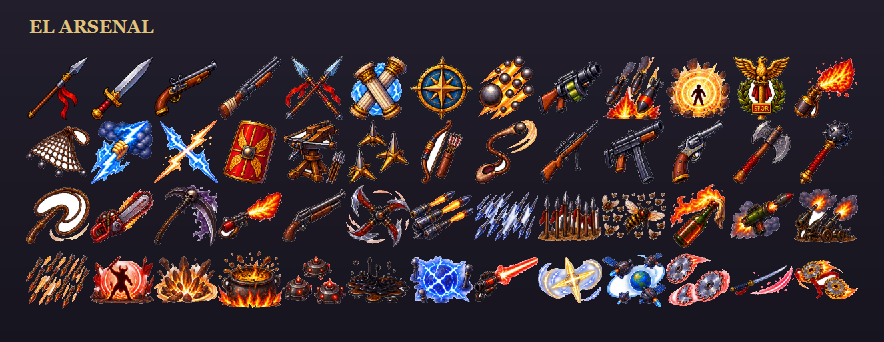
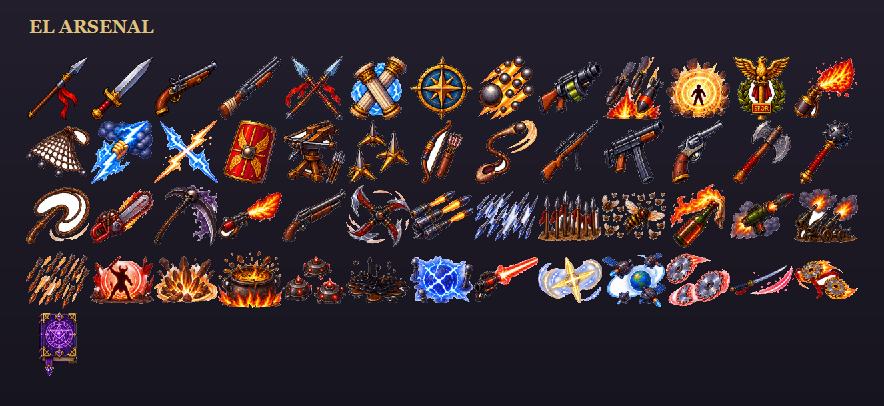
El Códice Infernal: el arma de Say crece contando libros, no números
Un libro orbitando al empezar y uno más en cada subida, hasta los diez de la
lámina. Es la única arma del juego en la que subir de nivel se ve antes de
leer nada: hay otro libro dando vueltas.

Y CADA LIBRO ES UN LIBRO DISTINTO, no diez copias del mismo. Para eso hacía
falta una forma nueva de repartir una hoja de fotogramas: las lunas de los
Satélites eligen el suyo por DÓNDE están en la órbita —así una vuelta es un
ciclo lunar— y aquí tiene que elegirlo el NÚMERO de orbital, o los diez libros
estarían cambiando de portada todo el rato y ninguno sería el tuyo.

Giran más deprisa con el nivel, de 1,6 a 4,45 rad/s. Es lo que evita que el
arma sea solo "más cosas": la última subida no añade un décimo del daño,
cambia cómo se siente. Por eso el daño sube poco y el radio casi nada — con
diez orbitales cada punto se cobra diez veces por vuelta.

Los libros salieron primero a 1,7 sobre su radio de daño y cada uno era más
alto que la propia Say: diez de esos tapaban a quien los llevaba. A 1,15 se
leen como objetos que ella maneja.

La portada del arma es el primer libro de la lámina. La tira de iconos se
monta desde archivos sueltos, uno por arma, así que faltaba poder sacar una
celda de una hoja a un archivo aparte: eso es ExtraerCelda, y corta por
rectángulo porque las diez calles de la lámina están limpias (columnas
18-227, 249-461, 479-688, 710-920, 942-1156 sobre celdas de 233).

La huella dorada del determinismo cambia y no es una regresión: un arma más
[…]

diff --git a/js/datos/armas.js b/js/datos/armas.js
@@ -1193,6 +1193,73 @@ export const ARMAS = {
               { danyo: 6 }, { danyo: 9, recarga: -0.15 }]
   },
 
+  // --- El arma de Say: el Códice Infernal --------------------------------
+  //
+  // Pedida por Sergio, y es un orbital que crece EN NÚMERO DE LIBROS: uno al
+  // nivel 1 y uno más en cada subida, hasta los diez de la lámina. Es la única
+  // arma del juego en la que subir de nivel se ve antes de leer nada — hay un
+  // libro más dando vueltas.
+  //
+  // CADA LIBRO ES UN LIBRO DISTINTO, no diez copias del mismo. La lámina trae
+  // los diez y el motor reparte uno por orbital (`fotogramaPorEscudo`, ver
+  // dibujarOrbitales en sistemas/armas.js), así que la biblioteca se va
+  // abriendo según se sube: el que sale al nivel 7 no lo habías visto nunca.
+  //
+  // Y GIRAN MÁS DEPRISA CON EL NIVEL. `velocidadAngular` sube en casi todas las
+  // subidas, de 1,6 a 4,4 rad/s: al 1 es un libro paseando y al 10 son diez
+  // rodeándote a la carrera. Es lo que evita que el arma sea solo "más cosas":
+  // la última subida no añade un décimo del daño, cambia cómo se siente.
+  //
+  // EL DAÑO SUBE POCO A POCO Y EL RADIO CASI NADA, a propósito. Con diez
+  // orbitales, cada punto de daño se cobra diez veces por vuelta: la cuenta que
+  // importa aquí no es el golpe, es cuántos hay dando vueltas y a qué
+  // velocidad. Por eso arranca en 9 —por debajo de los Satélites, que solo
+  // llevan dos— y llega a 40 y no a 72.
+  //
+  // `radioOrbita` 46: entre los Discos de sierra (26, pegados al cuerpo) y los
+  // Satélites (68, guardando el perímetro). Un libro a media distancia es lo
+  // que deja pasar a un enemigo por dentro y por fuera, que es lo que hace que
+  // colocarse importe.
+  codiceInfernal: {
+    nombre: 'Códice Infernal',
+    descripcion: 'Diez libros que no deberían abrirse. Cada nivel despierta a otro.',
+    comportamiento: 'orbital',
+    danyo: 9, recarga: 1.0, escudos: 1, radioOrbita: 46, radioEscudo: 6,
+    velocidadAngular: 1.6, empuje: 55, color: '#b07de0',
+    spriteOrbital: 'orbCodice',
+    // El libro por número de orbital y no por posición en la órbita: ver la
+    // nota larga de `porEscudo` en dibujarOrbitales.
+    fotogramaPorEscudo: true,
+    // 1,15 sobre el radio de daño. Un poco por encima, como las lunas, porque el
+    // libro es ALTO Y ESTRECHO y su dibujo entra en un cuadro: lo que sobresale
+    // del círculo es el alto del libro, no filo — el daño sigue siendo el
+    // círculo de `radioEscudo`, como en todos los orbitales.
+    //
+    // Llegó a estar en 1,7 y era demasiado: con el radio al máximo, cada libro
+    // salía más alto que la propia Say —34 unidades contra 26— y diez de esos
+    // dando vueltas tapaban a quien los llevaba. Un libro tiene que leerse como
+    // un objeto que ella maneja, no como un decorado con una niña dentro.
+    escalaOrbital: 1.15,
+    // SIN `giroOrbital`. Mismo motivo que las lunas y que el escudo del Scutum:
+    // un libro tiene derecho y revés, y rotándolo se lee del revés media vuelta
+    // de cada dos. Lo que da la sensación de magia aquí es que sean muchos y
+    // vayan rápido, no que volteen.
+    // EL RADIO DE DAÑO CRECE POCO —de 6 a 8— y no por tacañería: son DIEZ
+    // círculos girando. Cada unidad de radio se multiplica por diez alrededor
+    // del jugador, así que lo que en un arma de dos orbitales es un ajuste
+    // menor, aquí es cerrar el paso del todo.
+    niveles: [{},
+              { escudos: 1, velocidadAngular: 0.35, danyo: 3 },
+              { escudos: 1, velocidadAngular: 0.3, danyo: 3, radioEscudo: 1 },
+              { escudos: 1, velocidadAngular: 0.3, danyo: 3 },
+              { escudos: 1, velocidadAngular: 0.3, danyo: 4, radioOrbita: 6 },
+              { escudos: 1, velocidadAngular: 0.3, danyo: 3 },
+              { escudos: 1, velocidadAngular: 0.3, danyo: 4 },
+              { escudos: 1, velocidadAngular: 0.3, danyo: 4, radioEscudo: 1 },
+              { escudos: 1, velocidadAngular: 0.3, danyo: 3, radioOrbita: 6 },
+              { escudos: 1, velocidadAngular: 0.4, danyo: 4, recarga: -0.15 }]
+  },
+
   // --- Barrido completo: la katana --------------------------------------
   // Pedida por Sergio. Es un arcoMelee con la apertura al máximo: 360 grados,
   // así que no hay que orientarse ni acercarse por un lado concreto — barre todo

diff --git a/js/sistemas/armas.js b/js/sistemas/armas.js
@@ -1055,10 +1055,24 @@ export class Armas {
         const fases = metaOrb.frames || 1;
         const vuelta = Math.PI * 2;
 
+        // UN DIBUJO DISTINTO POR ORBITAL, la otra manera de repartir la hoja.
+        //
+        // Es la del Códice Infernal: sube de nivel y aparece OTRO libro, no uno
+        // más igual que el anterior. Su hoja trae los diez, y lo que elige cuál
+        // es el número de orbital, no dónde está en la órbita — cada libro es
+        // el mismo libro siempre, dé las vueltas que dé. Si la fase la pusiera
+        // el ángulo, como en las lunas, los diez libros estarían cambiando de
+        // portada todo el rato y no habría ninguno que fuera el tuyo.
+        const porEscudo = !!arma.def.fotogramaPorEscudo;
+
         for (let k = 0; k < s.escudos; k++) {
           const a = arma.anguloOrbital + k * paso;
           let f = 0;
-          if (fases > 1) {
+          if (porEscudo) {
+            // El módulo es la red de seguridad: si algún día hay más orbitales
+            // que dibujos en la hoja, se repiten en vez de indexar fuera.
+            f = k % fases;
+          } else if (fases > 1) {
             // El doble módulo es para los ángulos negativos: en JavaScript
             // (-0.3 % 1) es -0.3, no 0.7, y eso indexaría fuera de la tira.
             const t = (((a / vuelta) % 1) + 1) % 1;

diff --git a/herramientas/probar-determinismo.js b/herramientas/probar-determinismo.js
@@ -31,8 +31,19 @@ const RAIZ = join(dirname(fileURLToPath(import.meta.url)), '..');
 const PUERTO = 8143;
 
 // Huella de la semilla por defecto (0xE3E21A), 3600 fotogramas de seis en seis
-// centenas. Tomada el 4 de septiembre de 2026.
-const HUELLA_ESPERADA = 'd304ef86 901760c0 4e6676a4 160005aa 8b4c668c f44a7bea b591fd1b';
+// centenas. Rehecha el 6 de septiembre de 2026, al entrar el Codice Infernal.
+//
+// POR QUE CAMBIO, que es lo unico que hay que saber para no asustarse la
+// proxima vez: un arma nueva en el catalogo cambia el SORTEO de la subida de
+// nivel —hay un candidato mas del que tirar— y a partir de ahi el azar se gasta
+// en otro orden. La simulacion no se ha tocado: las dos primeras pruebas de
+// este mismo archivo siguen diciendo que la misma partida jugada dos veces sale
+// igual, que es la propiedad. Esta tercera solo compara con lo que habia.
+//
+// Los cuatro primeros grupos ni se movieron -d304ef86 901760c0 4e6676a4
+// 160005aa, o sea los primeros 2400 fotogramas- porque hasta la primera subida
+// de nivel no hay sorteo que cambiar.
+const HUELLA_ESPERADA = 'd304ef86 901760c0 4e6676a4 160005aa 52a69c3b f3a62c38 84341b77';
 
 let fallos = 0;
 function comprobar(condicion, texto) {

diff --git a/js/datos/personajes.js b/js/datos/personajes.js
@@ -115,10 +115,14 @@ export const PERSONAJES = {
     nombre: 'Say',
     sprite: 'say',
     descripcion: 'Que giren ellas. Yo miro.',
-    // Satélites: dos lunas en órbita ancha que no apuntan a nada. Se juega
-    // colocándose, no disparando, y con la recogida alta para que el nivel
-    // llegue sin tener que ir a por las gemas.
-    arma: 'satelites',
+    // Códice Infernal: un libro orbitando al empezar y diez al nivel 10, cada
+    // vez más rápidos. Se juega colocándose, no disparando, y con la recogida
+    // alta para que el nivel llegue sin tener que ir a por las gemas — que en
+    // ella no es un lujo, es su arma: cada subida es un libro más.
+    //
+    // Los Satélites, que llevaba antes, se quedan en el catálogo como un arma
+    // más del sorteo. Eran suyos porque eran el orbital que había.
+    arma: 'codiceInfernal',
     coste: 3500,
     mods: { vidaMaxima: 1.1, velocidad: 1.0, radioRecogida: 1.2 }
   },

diff --git a/manual/manual-jugador.html b/manual/manual-jugador.html
@@ -511,7 +511,7 @@
       <strong>nivel 10</strong>, y cada nivel lo hace más fuerte: más daño, menos
       recarga, más alcance, según lo que sea. Tres <strong>rerolls</strong> por
       partida, por si las cuatro cartas que salen no convencen.</p>
-      <p style="font-size:13px">Hay <strong>57 armas</strong> y no vas a ver ni
+      <p style="font-size:13px">Hay <strong>58 armas</strong> y no vas a ver ni
       la mitad en una partida: de ahí que dos partidas seguidas se jueguen
       distinto. La ambientación va mezclada a propósito —honda balear junto a
       subfusil—, que es una decisión tomada y no un descuido: Mérida es una

diff --git a/README.md b/README.md
@@ -12,7 +12,7 @@ tres armas cada vez, y acaba con la Loba Capitolina.
 [![ES6](https://img.shields.io/badge/JavaScript-m%C3%B3dulos%20ES6-f7df1e?style=flat-square)](#)
 [![Sin dependencias](https://img.shields.io/badge/dependencias-cero-2ea043?style=flat-square)](#)
 [![Sin build](https://img.shields.io/badge/build-ninguno-2ea043?style=flat-square)](#)
-[![Armas](https://img.shields.io/badge/armas-57-e2c27a?style=flat-square)](#)
+[![Armas](https://img.shields.io/badge/armas-58-e2c27a?style=flat-square)](#)
 [![Cooperativo](https://img.shields.io/badge/cooperativo-hasta%204-e2c27a?style=flat-square)](#)
 [![Licencia: GPL v3](https://img.shields.io/badge/licencia-GPLv3-blue?style=flat-square)](LICENSE)
 
@@ -32,7 +32,7 @@ Sin instalar nada, en el navegador:
 
 Se recomienda mando, pero con teclado se juega igual. Y hay
 **[manual de jugador](https://sergiosanchezcustodio.github.io/emerita-survivors/manual/manual-jugador.html)**:
-controles, los cuatro personajes, el arsenal, el bestiario y los tres jefes.
+controles, los ocho personajes, el arsenal, el bestiario y los tres jefes.
 
 <details>
 <summary><b>En local, para desarrollar</b></summary>
@@ -233,14 +233,16 @@ que huyen en vez de perseguir.
 
 ## El arsenal
 
-**57 armas**, tres opciones cada vez que subes de nivel, y evoluciones que piden
+**58 armas**, tres opciones cada vez que subes de nivel, y evoluciones que piden
 un arma al 8 más su pasivo y un cofre de élite.
 
 ![Arsenal](docs/arsenal.png)
 
 Desde el pilum y el gladius hasta el lanzallamas, las minas de proximidad, los
-satélites en órbita y la tormenta de rayos de Júpiter. La ambientación va
-mezclada a propósito: honda balear junto a subfusil. Es una decisión tomada, no
+satélites en órbita y la tormenta de rayos de Júpiter. El **Códice Infernal**,
+que es el arma de Say, es la única que crece contándose: un libro orbitando al
+empezar y diez al nivel 10, cada subida despierta uno nuevo y todos giran más
+rápido. La ambientación va mezclada a propósito: honda balear junto a subfusil. Es una decisión tomada, no
 un descuido — Mérida es una ciudad romana en la que vive gente hoy.
 
 ---
